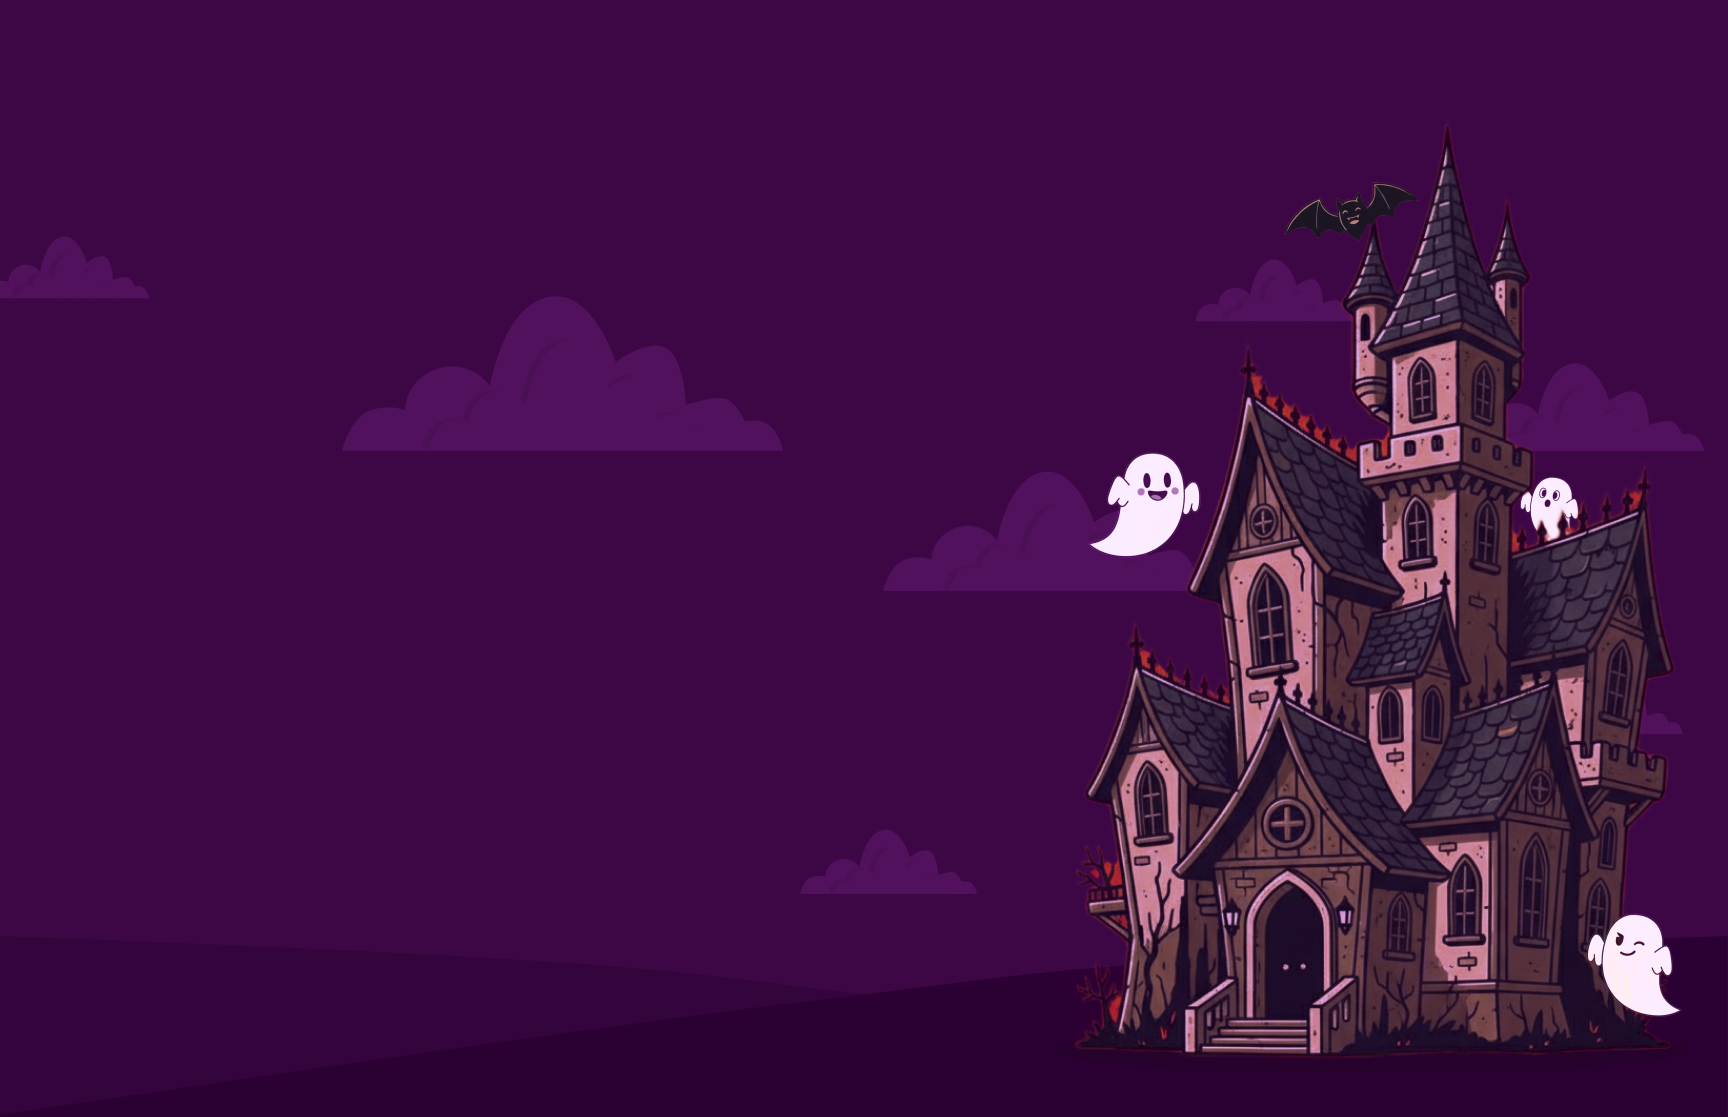
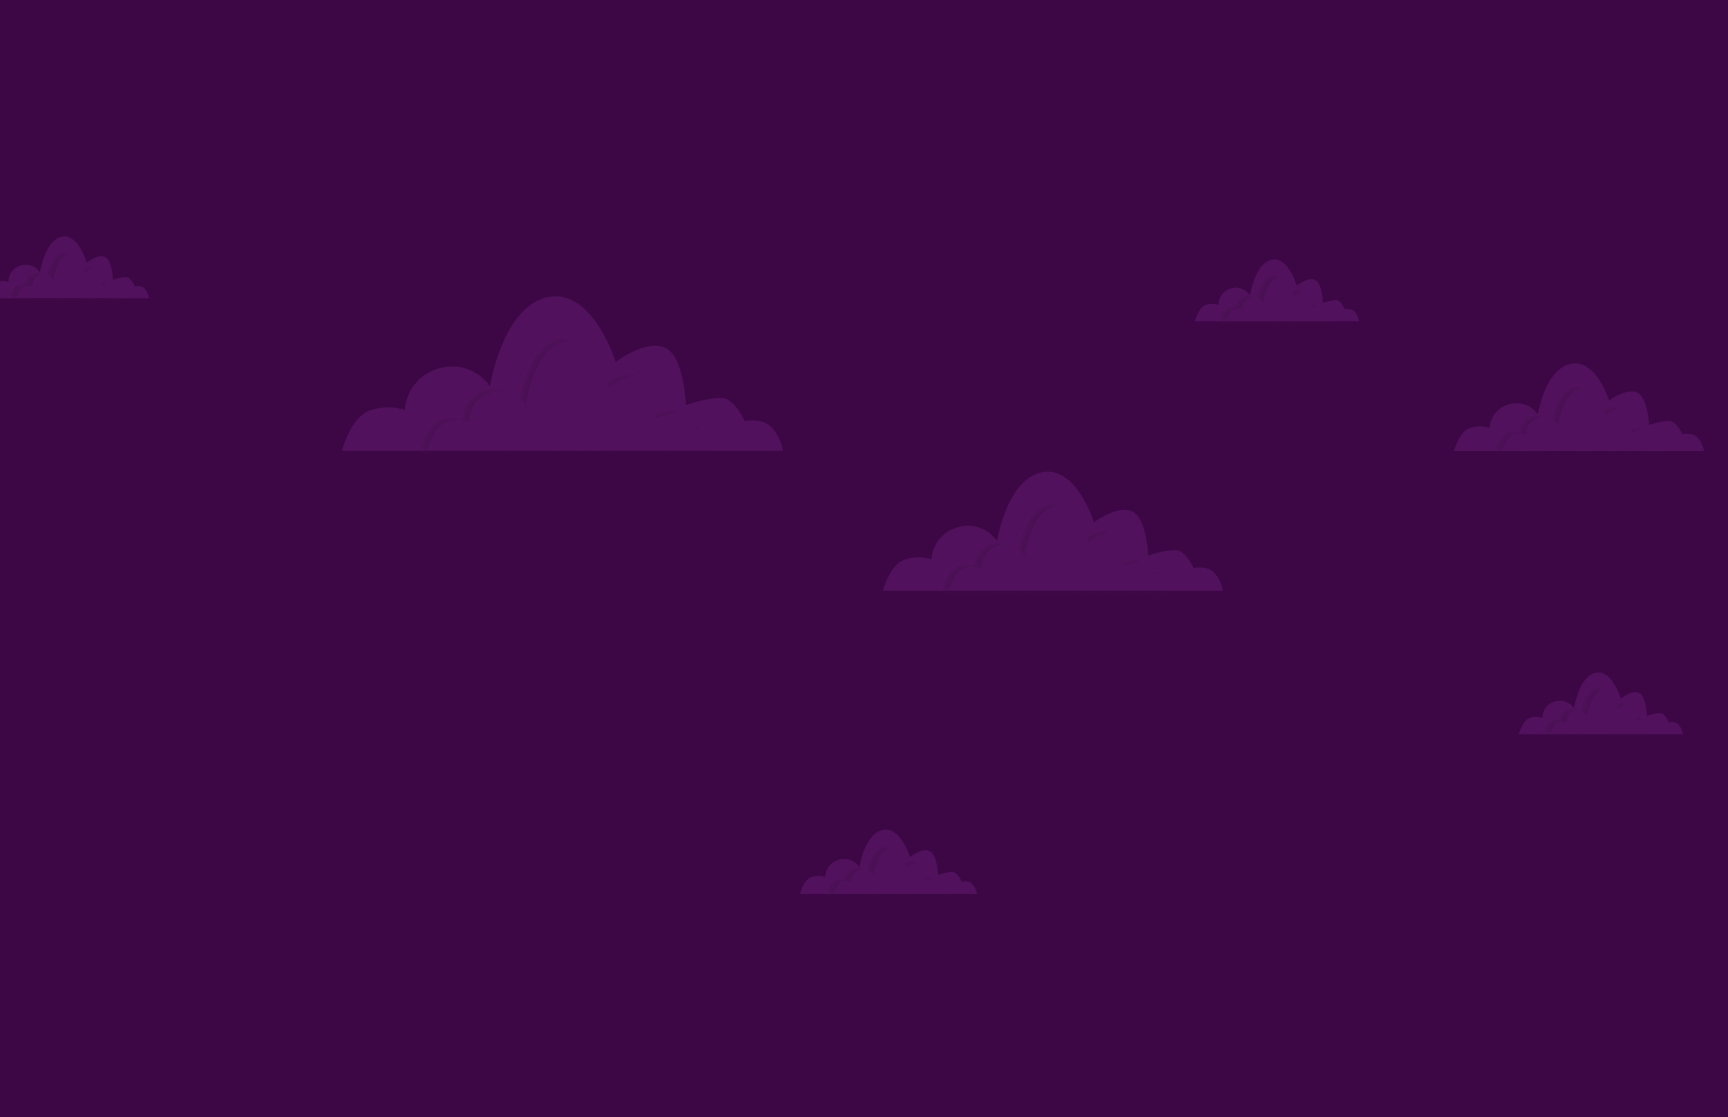
fix hero section

Changed region(s): [[0.5938, 0.1218, 0.9688, 0.974]]

diff --git a/components/custom/Hero.tsx b/components/custom/Hero.tsx
@@ -1,40 +1,98 @@
+"use client";
 import Image from 'next/image';
 import Header from '@/components/custom/Header';
 import { Button } from '@/components/ui/button';
 import CustomButton from '../buildup/CustomButton';
+import { useIsMobile } from '@/lib/hooks/mobile';
 
 const HeroSection: React.FC = () => {
+  const isMobile = useIsMobile();
+
   return (
-    <section className="bg-[url('/assets/hero-bg.png')] bg-contain w-full h-screen relative overflow-hidden">
+    <section className="bg-[url('/assets/hero-bg.png')] bg-contain w-full h-screen relative overflow-hidden max-h-[1000px]">
       <Header />
 
-      <div
-        className="flex flex-col items-center w-[500px] ml-[6vw] mt-[10vw]"
-      >
-        {/* Main title */}
-        <Image
-          src={"/assets/hacktober.png"}
-          width={800}
-          height={400}
-          alt="Main title"
-          className="w-[50vw] h-auto"
-        />
+      {!isMobile ? (
+        <div
+          className="flex w-full items-center justify-between px-[7vw] mb-[5vw] absolute bottom-0"
+        >
+          <div
+            className="flex flex-col items-center md:w-[35vw] lg:w-[40vw]"
+          >
+            {/* Main title */}
+            <Image
+              src={"/assets/hacktober.png"}
+              width={800}
+              height={400}
+              alt="Main title"
+              className="md:w-[45vw] lg:w-[50vw] max-w-[500px] h-auto"
+            />
 
-        {/* Subtitle */}
-        <h2 className="text-[#FF7620] text-2xl font-bold mt-5 ">
-          Spooktacular Hacks Await
-        </h2>
+            {/* Subtitle */}
+            <h2 className="text-[#FF7620] text-xl md:text-xl lg:text-2xl font-bold mt-5">
+              Spooktacular Hacks Await
+            </h2>
 
-        {/* Action buttons */}
-        <div className="flex py-5 gap-4">
-          <Button className="px-8 py-6 rounded-full border-4 border-orange-500 bg-transparent text-orange-500 font-bold text-lg hover:bg-orange-500 hover:text-white hover:border-orange-500 hover:scale-105 hover:shadow-lg active:scale-95 transition-all duration-300 ease-in-out cursor-pointer">
-            More Info
-          </Button>
+            {/* Action buttons */}
+            <div className="flex py-5 gap-4">
+              <Button className="px-4 py-4 sm:px-6 sm:py-4 md:px-8 md:py-5 rounded-full border-4 border-orange-500 bg-transparent text-orange-500 font-bold text-lg hover:bg-orange-500 hover:text-white hover:border-orange-500 hover:scale-105 hover:shadow-lg active:scale-95 transition-all duration-300 ease-in-out cursor-pointer">
+                More Info
+              </Button>
 
-          <CustomButton variant="light"/>
+              <CustomButton variant="light" className="pl-4 pr-1 py-5 sm:pl-4 sm:pr-1 sm:py-5 md:pl-5 md:pr-2 md:py-6" />
+            </div>
+          </div>
+
+          {/* Mansion */}
+          <Image
+            src={"/assets/hero-item-1.png"}
+            width={800}
+            height={800}
+            alt="Item 1"
+            className="w-0 md:w-[29vw] lg:w-[30vw] max-w-[500px] h-auto z-10"
+          />
         </div>
-      </div>
+      ) : (
+        <div className="flex flex-col w-full items-center justify-center mt-[250px] gap-3">
+            {/* Main title */}
+            <Image
+              src={"/assets/hacktober.png"}
+              width={800}
+              height={400}
+              alt="Main title"
+              className="h-auto w-[90vw] min-w-[420px]"
+            />
 
+            {/* Subtitle */}
+            <h2 className="text-[#FF7620] text-xl md:text-xl lg:text-2xl font-bold mt-5">
+              Spooktacular Hacks Await
+            </h2>
+
+            {/* Action buttons */}
+            <div className="flex py-5 gap-5">
+              <Button className="px-6 py-6 rounded-full border-4 border-orange-500 bg-transparent text-orange-500 font-bold text-lg hover:bg-orange-500 hover:text-white hover:border-orange-500 hover:scale-105 hover:shadow-lg active:scale-95 transition-all duration-300 ease-in-out cursor-pointer">
+                More Info
+              </Button>
+
+              <CustomButton variant="light" className="pl-5 pr-2 py-7" />
+            </div>
+        </div>
+      )}
+
+      <Image
+        src={"/assets/hero-item-2.svg"}
+        width={800}
+        height={200}
+        alt="ground"
+        className="w-full absolute bottom-0 left-0"
+      />
+      <Image
+        src={"/assets/hero-item-3.svg"}
+        width={800}
+        height={200}
+        alt="ground"
+        className="w-full absolute bottom-0 right-0"
+      />
     </section>
   );
 };

diff --git a/components/buildup/CustomButton.tsx b/components/buildup/CustomButton.tsx
@@ -3,10 +3,10 @@ import { Button } from "@/components/ui/button";
 import customBtn_orange from "@/public/components/customBtn_orange.svg";
 import customBtn_black from "@/public/components/customBtn_black.svg";
 
-export default function CustomButton({ variant }: { variant: "dark" | "light" }) {
+export default function CustomButton({ variant, className }: { variant: "dark" | "light", className?: string }) {
     return (
         <div className="flex-shrink-0">
-            <Button className={`${ variant === "dark" ? "bg-gray-900 hover:bg-gray-800 text-orange-500" : "bg-orange-500 hover:bg-orange-400 text-gray-900"} font-bold pl-6 pr-2 py-7 rounded-full flex items-center space-x-3 transition-all duration-200 shadow-lg cursor-pointer`}>
+            <Button className={`${ variant === "dark" ? "bg-gray-900 hover:bg-gray-800 text-orange-500" : "bg-orange-500 hover:bg-orange-400 text-gray-900"} ${className} font-bold rounded-full flex items-center space-x-3 transition-all duration-200 shadow-lg cursor-pointer`}>
                 <span className="text-lg">Join Event</span>
                 <div className={`${variant === "dark" ? "bg-orange-500 text-gray-900" : "bg-gray-900 text-orange-500"} rounded-full p-3`}>
                     {variant === "dark" ? 

diff --git a/lib/hooks/mobile.tsx b/lib/hooks/mobile.tsx
@@ -1,0 +1,17 @@
+"use client";
+import { useEffect, useState } from "react";
+
+export function useIsMobile(MOBILE_BREAKPOINT = 768) {
+    if (typeof window === "undefined") return false;
+    const [isMobile, setIsMobile] = useState(window.innerWidth < MOBILE_BREAKPOINT);
+
+    useEffect(() => {
+        const handleResize = () => {
+            setIsMobile(window.innerWidth < MOBILE_BREAKPOINT);
+        };
+        window.addEventListener("resize", handleResize);
+        return () => window.removeEventListener("resize", handleResize);
+    }, [MOBILE_BREAKPOINT]);
+
+    return isMobile;
+}

diff --git a/app/page.tsx b/app/page.tsx
@@ -1,4 +1,3 @@
-import Header from '@/components/custom/Header';
 import HeroSection from '@/components/custom/Hero';
 import AboutSection from '@/components/custom/About';
 import ScheduleSection from '@/components/custom/Schedule';
@@ -9,13 +8,12 @@ import Footer from '@/components/custom/Footer';
 export default function Home() {
   return (
     <>
-      {/* <Header /> */}
       <HeroSection />
       <AboutSection />
       <ScheduleSection />
-      <FAQSection />
+      {/* <FAQSection />
       <SponsorsSection />
-      <Footer />
+      <Footer /> */}
     </>
   );
 }

diff --git a/components/custom/Header.tsx b/components/custom/Header.tsx
@@ -39,7 +39,7 @@ const Header: React.FC = () => {
         </Link>
       </nav>
 
-      <CustomButton variant="dark"/>
+      <CustomButton variant="dark" className="pl-6 pr-2 py-7" />
     </header>
   );
 };
